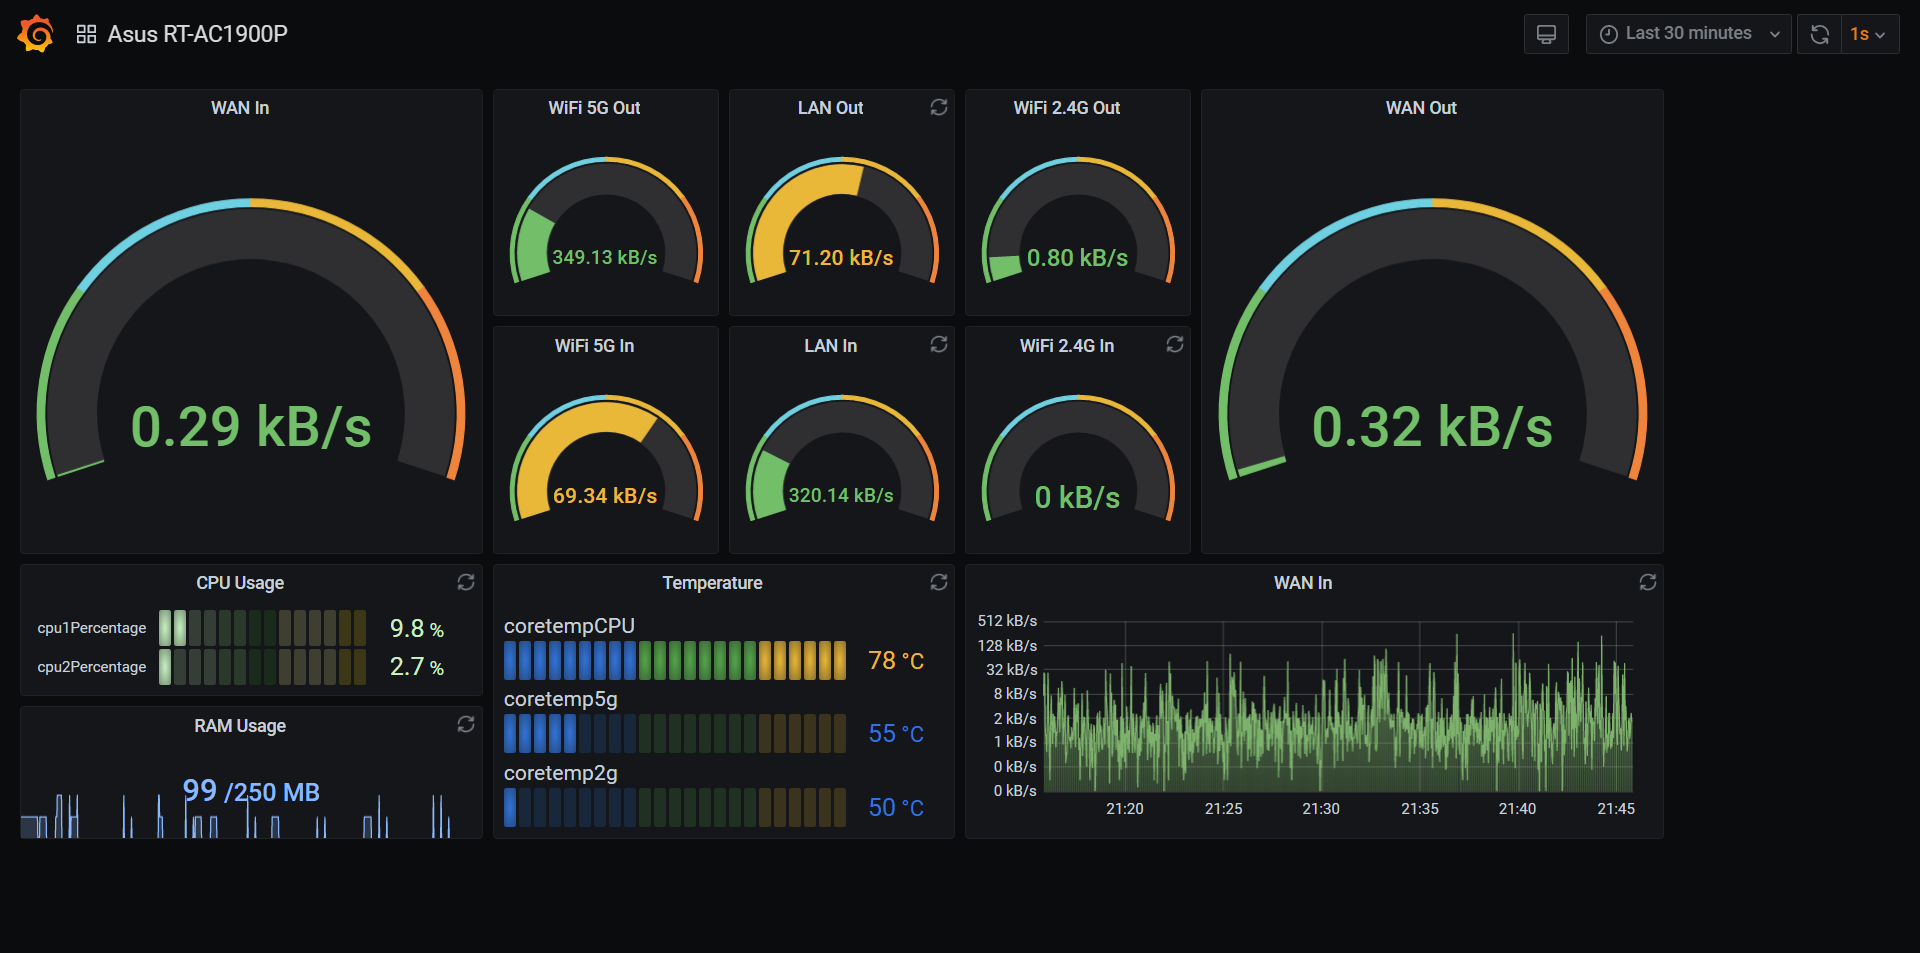
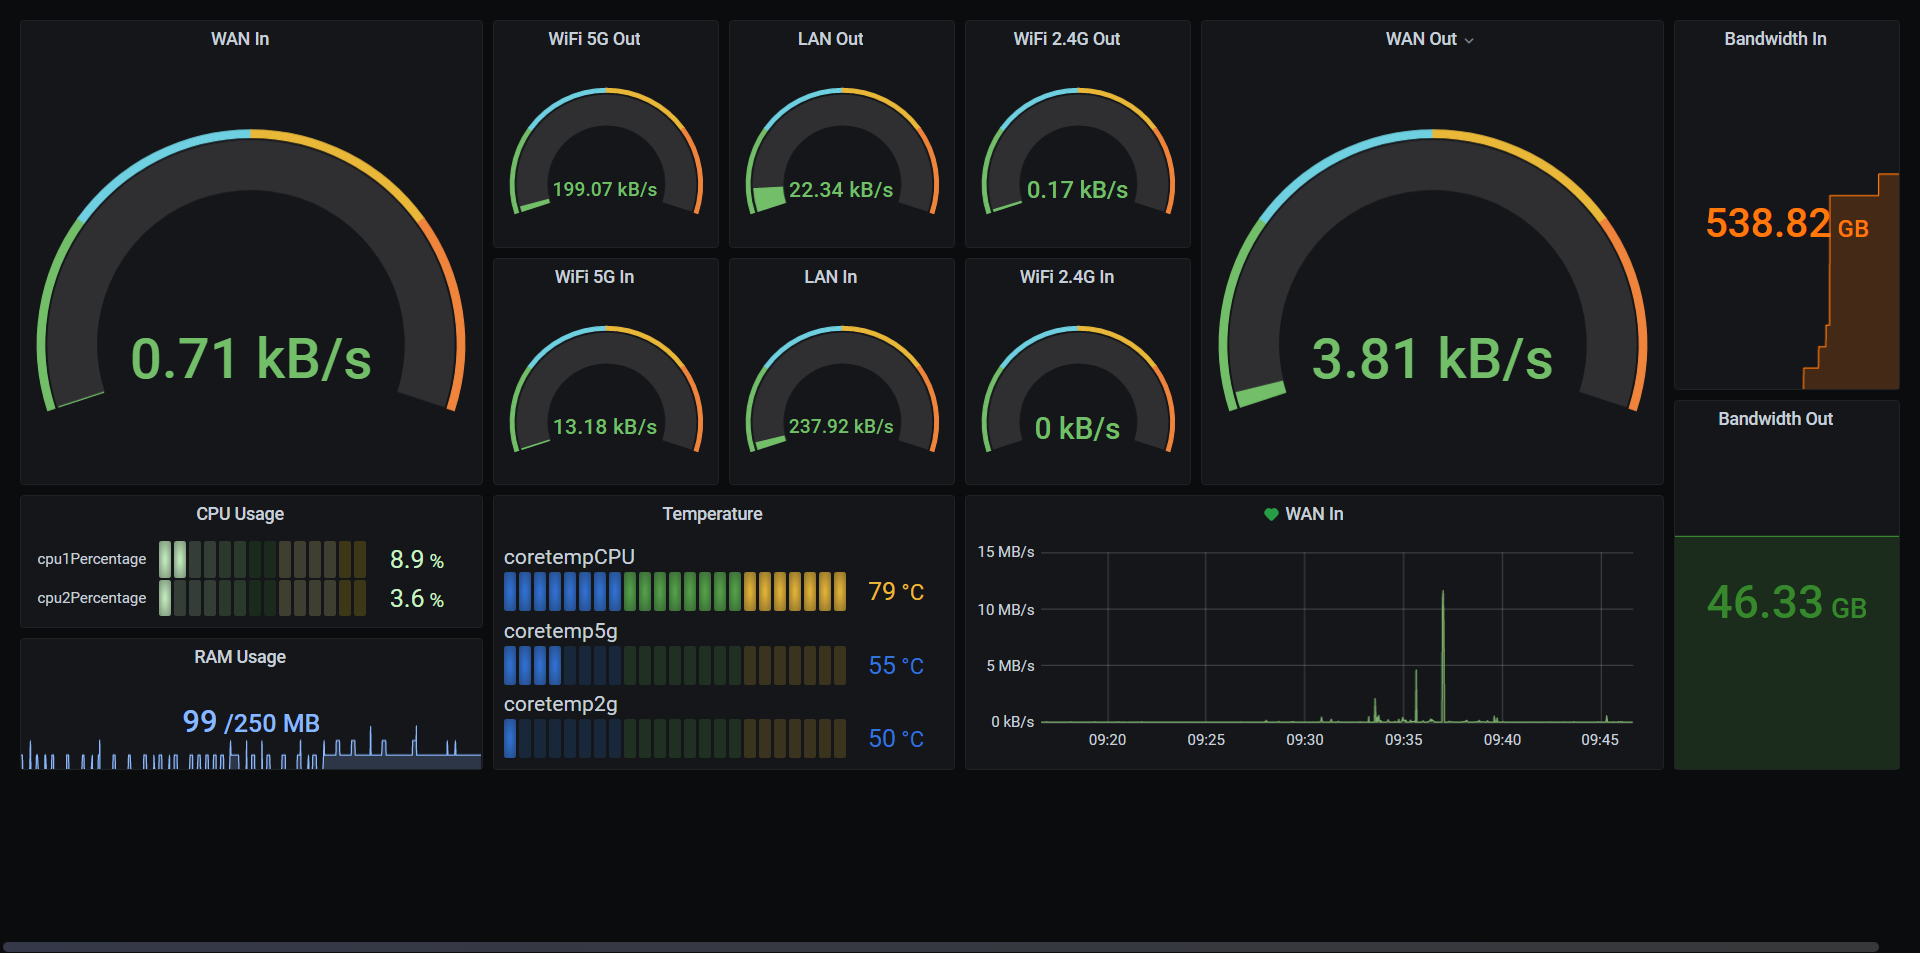
bandwidth monitor added

diff --git a/asusMonitor.py b/asusMonitor.py
@@ -1,4 +1,4 @@
-#!/usr/bin/python
+#!/usr/bin/python3
 
 import requests
 import regex as re
@@ -10,6 +10,7 @@ import mysql.connector
 import logging
 import base64
 import urllib
+
 
 # Input basic information below..
 ## Your router's address (format: http://ip_address or https://ip_address)
@@ -30,11 +31,13 @@ sqlTable = '' # MySQL Table you're gonna use
 
 
 
+
 # Script starts here
 authURL = '{}/login.cgi'.format(asusAddr)
 speedURL = '{}/update.cgi'.format(asusAddr)
 tempURL = '{}/ajax_coretmp.asp'.format(asusAddr)
 statusURL = '{}/cpu_ram_status.xml'.format(asusAddr)
+bandwidthURL = '{}/Main_TrafficMonitor_monthly.asp'.format(asusAddr)
 
 asusIP = re.search(r'((?<=https://)|(?<=http://))\d+\.\d+\.\d+\.\d+', asusAddr)[0]
 asusAuth = base64.b64encode('{}:{}'.format(asusUser, asusPasswd).encode())
@@ -50,7 +53,6 @@ authHeaders = {
   'Content-Type': 'application/x-www-form-urlencoded',
   'Accept': 'text/html,application/xhtml+xml,application/xml;q=0.9,image/avif,image/webp,image/apng,*/*;q=0.8,application/signed-exchange;v=b3;q=0.9',
   'Accept-Encoding': 'gzip, deflate, br',
-  'Accept-Language': 'zh-CN,zh;q=0.9,en;q=0.8,zh-TW;q=0.7',
   'Cache-Control': 'max-age=0',
   'Connection': 'keep-alive',
   'Content-Length': '154',
@@ -64,6 +66,10 @@ dataHeaders = {
   'User-Agent': 'Mozilla/5.0 (Windows NT 10.0; Win64; x64) AppleWebKit/537.36 (KHTML, like Gecko) Chrome/86.0.4240.75 Safari/537.3',
   'Content-Type': 'text/plain',
   'Referer': '{}/device-map/router_status.asp'.format(asusAddr)
+}
+
+bandwidthHeaders = {
+    'Cookie': ''
 }
 
 mydb = mysql.connector.connect(
@@ -92,7 +98,8 @@ def getData(token):
     requests.packages.urllib3.disable_warnings()
     
     # cookie
-    dataHeaders['Cookie'] = 'asus_token=' + token + 'clickedItem_tab=0'
+    dataHeaders['Cookie'] = 'asus_token={}'.format(token)
+    bandwidthHeaders['Cookie'] = 'asus_token={}'.format(token)
     
     # get speed and cpu ram status
     speedResponse1 = sessions.post(speedURL, headers=dataHeaders, data=dataPayload, verify=False)
@@ -106,6 +113,9 @@ def getData(token):
     # get coretemp
     tempResponse = sessions.get(tempURL, headers=dataHeaders, verify=False)
     
+    # get bandwidth
+    bandwidthResponse = requests.get(bandwidthURL, headers=bandwidthHeaders, verify=False)
+
     # speed result
     speedResult1 = speedResponse1.text
     speedResult2 = speedResponse2.text
@@ -116,6 +126,9 @@ def getData(token):
     # cpu ram status result
     statusResult1 = ET.fromstring(statusResponse1.text)
     statusResult2 = ET.fromstring(statusResponse2.text)
+    
+    # bandwidth result
+    bandwidthResult = bandwidthResponse.text
     
     # speed data cleaning
     wiredRX1 = int(re.search(r'(?<=WIRED\':{rx:).*(?=\,tx)', speedResult1)[0], 0)
@@ -176,6 +189,12 @@ def getData(token):
     
     # ramTotal = int(int(statusResult1[1][0].text)/1024)
     ramUsage = int(int(statusResult1[1][2].text)/1024)
+    
+    # bandwidth data cleaning
+    historyList = re.findall(r'(?<=monthly_history = \[\n).*(?=\]\;)', bandwidthResult)[0]
+    hexList = re.findall(r'0x\w+|\d+', historyList)
+    bandwidthRX = round(int(hexList[-2], 0)/1024/1024, 2)
+    bandwidthTX = round(int(hexList[-1], 0)/1024/1024, 2)
 
     # SQL Insert
     sqlCommand = '''INSERT INTO {}(internetRXSpeed, 
@@ -191,8 +210,10 @@ def getData(token):
                     coretempCPU, 
                     cpu1Percentage, 
                     cpu2Percentage, 
-                    ramUsage) 
-                    VALUE ({},{},{},{},{},{},{},{},{},{},{},{},{},{})'''\
+                    ramUsage, 
+                    bandwidthRX, 
+                    bandwidthTX) 
+                    VALUE ({},{},{},{},{},{},{},{},{},{},{},{},{},{},{},{})'''\
                         .format(sqlTable, \
                                 internetRXSpeed, \
                                 internetTXSpeed, \
@@ -207,7 +228,9 @@ def getData(token):
                                 coretempCPU, \
                                 cpu1Percentage, \
                                 cpu2Percentage, \
-                                ramUsage)
+                                ramUsage, \
+                                bandwidthRX, \
+                                bandwidthTX)
     mycursor.execute(sqlCommand)
     mydb.commit()
     
@@ -232,7 +255,7 @@ def getData(token):
     # print('[RAM Usage] {} MB'.format(str(ramUsage)))
     # print('\n')
     logging.debug('Get Data Done')
-    return internetRXSpeed, internetTXSpeed, wiredRXSpeed, wiredTXSpeed, wireless2gRXSpeed, wireless2gTXSpeed, wireless5gRXSpeed, wireless5gTXSpeed, coretemp2g, coretemp5g, coretempCPU, cpu1Percentage, cpu2Percentage, ramUsage
+    return internetRXSpeed, internetTXSpeed, wiredRXSpeed, wiredTXSpeed, wireless2gRXSpeed, wireless2gTXSpeed, wireless5gRXSpeed, wireless5gTXSpeed, coretemp2g, coretemp5g, coretempCPU, cpu1Percentage, cpu2Percentage, ramUsage, bandwidthRX, bandwidthTX
 
 
 def listener(event):
@@ -242,6 +265,7 @@ def listener(event):
         getAuth()
         scheduler.add_job(getAuth, 'interval', hours=6)
         scheduler.add_job(getData, 'interval', seconds=2, max_instances=5, args=[token])
+        logging.warning('Monitor Restarted.')
         
         
 if __name__ == '__main__':
